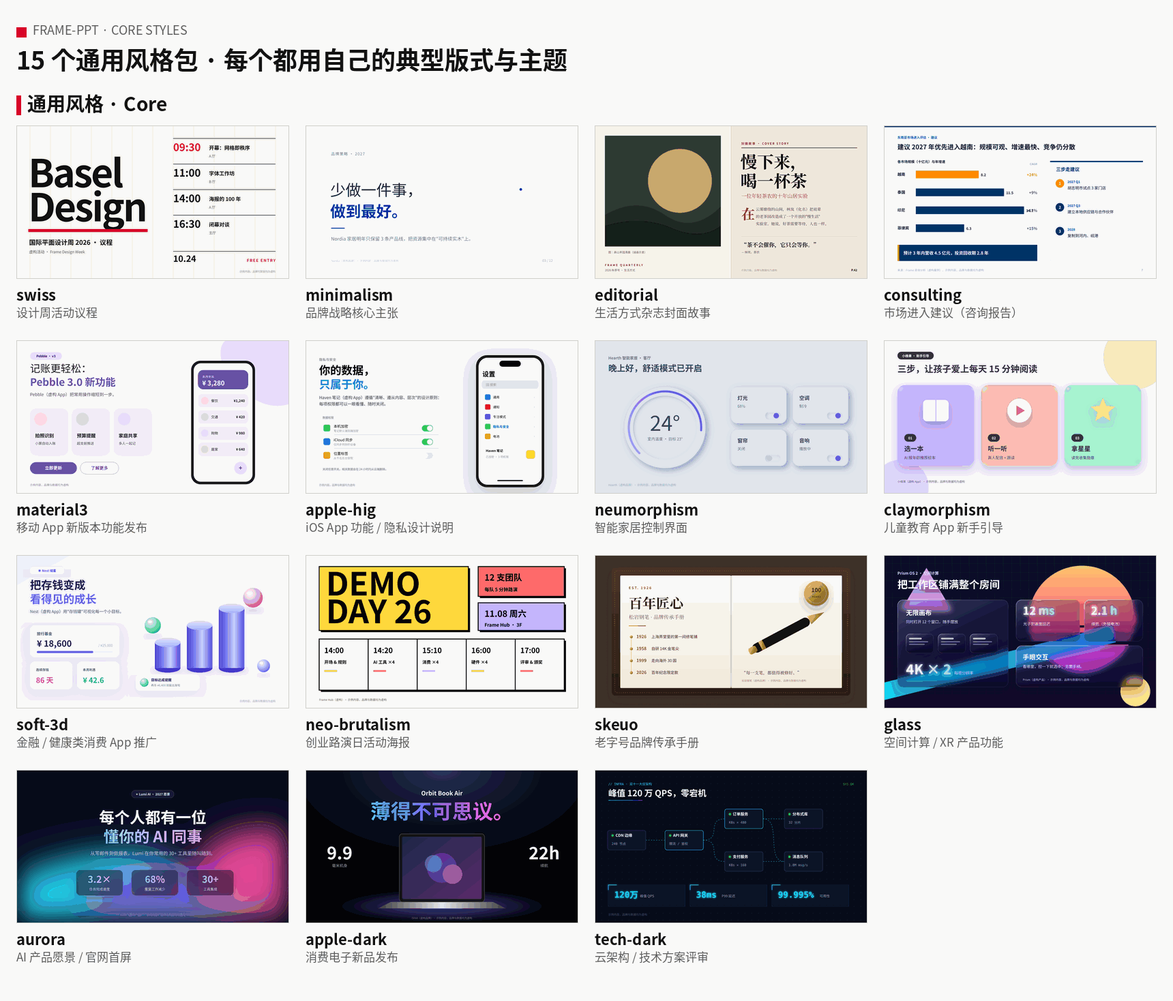
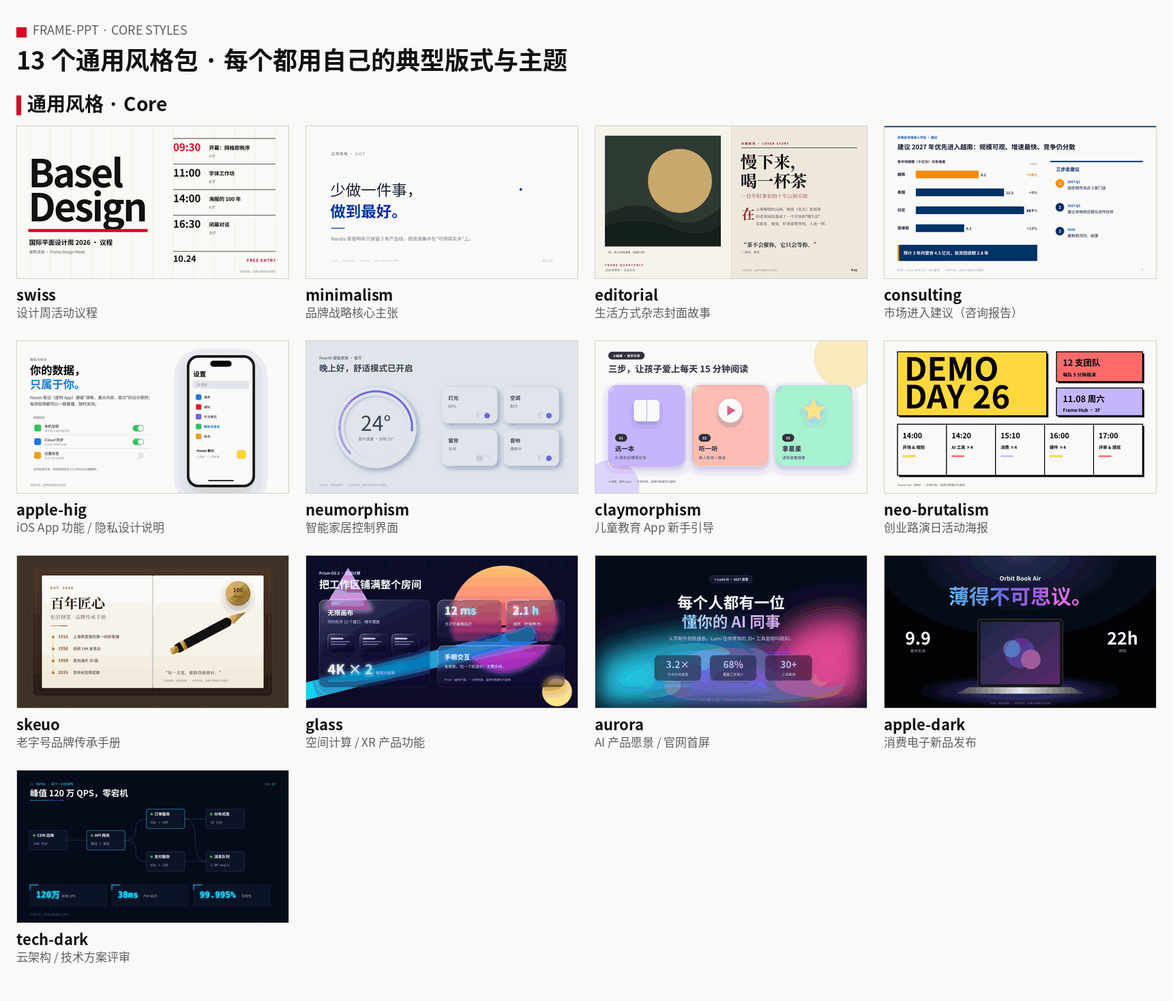
Remove soft-3d and material3 (33 packs); big-type README images; shorter READMEs; rebuilt galleries

Changed region(s): [[0.0, 0.3372, 0.986, 0.9809], [0.1541, 0.3372, 0.2465, 0.4905]]

diff --git a/SKILL.md b/SKILL.md
@@ -183,21 +183,21 @@ python3 scripts/svg2pptx.py out.pptx svg/*.svg
 ---
 
 ## 附录 A：风格包
-共 35 个：通用 15 个（A1–A13、A28 apple-hig、A29 soft-3d），行业与潮流 20 个（A14–A27、A30–A35）。
+共 33 个：通用 13 个（A1–A12、A27 apple-hig），行业与潮流 20 个（A13–A26、A28–A33）。
 
 **按场景 / 行业选风格包**：
 | 场景 | 推荐 |
 |---|---|
-| 培训、通用汇报 | swiss、minimalism、material3 |
+| 培训、通用汇报 | swiss、minimalism |
 | 咨询、战略、市场进入 | consulting、dashboard |
 | 经营分析、周报月报 | dashboard、consulting、neo-fintech |
 | 品牌故事、杂志、年度回顾 | editorial、skeuo、minimalism |
 | 消费电子 / 科技发布会 | apple-dark、big-type、aurora、glass |
-| App 功能、移动产品 | apple-hig、material3、soft-3d、y2k |
+| App 功能、移动产品 | apple-hig、y2k |
 | SaaS / AI 产品 | saas-launch、aurora、glass |
-| 金融科技、数字银行、加密 | neo-fintech、soft-3d、dashboard |
+| 金融科技、数字银行、加密 | neo-fintech、dashboard |
 | 工程、硬件、架构评审 | blueprint、tech-dark |
-| 智能家居、IoT | neumorphism、soft-3d |
+| 智能家居、IoT | neumorphism |
 | 教育、儿童 | claymorphism、kawaii-sticker |
 | 游戏发行、版本更新、世界观 | game-hud、fantasy-rpg、gacha、pixel-8bit |
 | 电竞、赛事 | esports、neo-brutalism |
@@ -286,105 +286,94 @@ python3 scripts/svg2pptx.py out.pptx svg/*.svg
 - 不用卡片底色，靠线和留白组织；适合观点类、品牌故事、年度回顾。
 - 不该做：圆角、阴影、渐变、超过 1 种强调色。
 
-### A9 `material3`：Material 3 / Material You
-- 调色板（基于种子色生成的 tonal palette）：Surface `#FFFBFE`，Surface Container `#F3EDF7`，Primary `#6750A4`，Primary Container `#EADDFF`，Secondary Container `#E8DEF8`，Tertiary Container `#FFD8E4`，On Surface `#1C1B1F`，次级 `#49454F`，Outline `#79747E`。
-- 形状：大圆角 28（卡片）、全圆角胶囊（标签 chip）；背景角落放一个 Primary Container 色的有机大形状（贝塞尔曲线）和一个 Tertiary 圆。
-- 卡片：Surface Container 填充 + elevation 1（`dy=1 std=1.5` 0.15 + `dy=4 std=6` 0.08）；右上角放一个 Container 色的圆形"图标位"，三张卡分别用 Secondary / Tertiary / 薄荷色调。重点卡用 Primary 实底白字。
-- 字号：标题 42（weight 600），大数字 60（weight 500，Primary），正文 18。
-- 不该做：硬阴影、尖角、饱和度过高的颜色、多个种子色。
-
-### A10 `neumorphism`：新拟态（Soft UI）
+### A9 `neumorphism`：新拟态（Soft UI）
 - 调色板：底色 = 卡片色 `#E0E5EC`（单色），凹槽 `#D1D9E6`，文字 `#3D4852` / `#6B7280`，强调紫 `#6C63FF`。
 - 凸起卡：同底色圆角 28，滤镜叠两层投影：左上白光 `dx=-10 dy=-10 std=12 #FFFFFF 0.9` + 右下暗影 `dx=12 dy=12 std=14 #A3B1C6 0.75`（用 feMerge 叠在原图下方）。
 - 凹陷区（重点卡内嵌）：内阴影滤镜（`feFlood` → `feComposite operator="out"` → blur 5 → offset 4,4 → 再 `in` 回原形状）。
 - 光源统一左上；对比度偏低，所以正文 ≥18，关键数字用强调紫。
 - 不该做：彩色底、细边框、深色模式、小字号浅灰字。
 
-### A11 `claymorphism`：黏土风
+### A10 `claymorphism`：黏土风
 - 调色板：画布 `#F4F1FA`，糖果色卡片 `#C4B5FD` 薰衣草 / `#FDBCB4` 蜜桃 / `#A7F3D0` 薄荷 / `#FDE68A` 奶黄，重点卡 `#7C3AED`，文字 `#332F3A`。
 - 卡片：大圆角 36；外投影 `dy=18 std=16 #5B3FA8 0.28`；内高光（白 0.8，offset 6,8，blur 8）+ 内暗部（`#3B1F7A` 0.25，offset −6,−10，blur 10），让卡片像充气的软黏土。
 - 标签用深色胶囊；大数字粗黑（weight 900，比常规大 8）；背景角落放两个半透明大圆点缀。
 - 不该做：尖角、细线条、写实阴影、超过 4 种糖果色。
 
-### A12 `neo-brutalism`：新粗野主义
+### A11 `neo-brutalism`：新粗野主义
 - 调色板：奶油底 `#FFFDF5`，纯黑 `#000000`，亮黄 `#FFD93D`，热红 `#FF6B6B`，柔紫 `#C4B5FD`。
 - 卡片：直角、3px 黑描边，右下 8px 实心黑色硬阴影（就是偏移 8,8 的黑色矩形，无模糊）；重点卡黑底黄字。
 - 背景：40px 竖线网格（黑 0.06）。标签是带黑框的红色小矩形；标题 44 weight 900；大数字 weight 900。
 - 不该做：渐变、圆角、柔和阴影、半透明。
 
-### A13 `aurora`：极光 / 渐变网格
+### A12 `aurora`：极光 / 渐变网格
 - 背景：`#070B1F` 深底 + 4 个大椭圆（`#22D3EE`、`#8B5CF6`、`#EC4899`、`#10B981`，旋转 ±10°）整体 `feGaussianBlur std=70`，形成流动的极光；不要压到正文区域的正下方。
 - 卡片：`#0B1026` 0.45–0.62 半透明深卡 + 白 0.16 细描边 + `dy=16 std=22` 黑 0.35 投影（深色玻璃但不做磨砂和边缘效果，比 `glass` 轻）。
 - 强调：`#7DD3FC → #F0ABFC` 渐变用于大数字和短条。文字白 / `#CBD5E1`。
 - 不该做：极光饱和度过高压住文字、在浅色底上用。
 
-### 行业与特色风格包（A14–A27）
+### 行业与特色风格包（A13–A26）
 所有示例都在同一页金字塔内容上，见 `docs/images/styles/`。卡片骨架（结论卡 + 3 张要点卡）不变，只换皮。
 
 **科技行业**
-### A14 `saas-launch`：SaaS / AI 产品发布（浅色）
+### A13 `saas-launch`：SaaS / AI 产品发布（浅色）
 - 底 `#FAFAFF` + 右上紫 `#A78BFA` 0.45、左下青 `#5EEAD4` 0.35 两个径向光；白卡 + `#E2E8F0` 描边 + 双层投影（近影 0.06 + 远影靛色 `#4F46E5` 0.10）；品牌渐变 `#6366F1 → #EC4899` 用于数字、短条、`✦ NEW · v2.0` 胶囊；结论卡 `#0F172A` 深色；要点卡右上放渐变 sparkline 折线（stroke 3，圆角端点）。与 apple-dark 的区别：浅色、产品官网感。
-### A15 `blueprint`：工程蓝图
+### A14 `blueprint`：工程蓝图
 - 底 `#0B3A6F` + 40px 细网格（白 0.08）+ 200px 粗网格（白 0.16）；卡片白 0.05 填充 + `#BEDCFF` 虚线描边（`6 5`），四角黄铜色 `#FFD27A` 小圆定位点；卡片上方画尺寸标注线 + 等宽小字 "368 px"；卡内画十字瞄准圆；右下角图签框（项目名 / 图号）；标签等宽 `DWG-02 /`；数字细体等宽白色。
-### A16 `dashboard`：数据看板
+### A15 `dashboard`：数据看板
 - 底 `#F3F4F6`；白卡圆角 12 + `#E5E7EB` 描边 + 极淡投影；每张要点卡一个环形进度（`stroke-dasharray` 按百分比，`rotate(-90)` 从顶部开始，圆角端点）+ 一条进度条，三色 `#2563EB / #10B981 / #F59E0B`；结论卡左侧 6px 蓝条 + 右侧柱状迷你图（最后一根深蓝高亮）；右上放 "2026 Q4 ▾" 筛选器。适合经营分析、周报。
 
 **游戏行业**
-### A17 `game-hud`：游戏 HUD / 科幻界面
+### A16 `game-hud`：游戏 HUD / 科幻界面
 - 底 `#050A14` + 六边形网格 pattern（青 0.07）+ 四周暗角径向渐变；卡片为切角八边形（切 18），左上角发光折线（`feGaussianBlur 5` + merge）；结论卡橙色 `#F97316` 边框 + "QUEST ★ 主线任务"；要点卡加 EXP 经验条（橙→黄渐变）+ 右上菱形格子（等级）；页眉右侧 HP 条；数字 "01/02/03" 等宽发光青色。与 tech-dark 的区别：游戏化元素（血条、经验、任务）、橙青对撞。
-### A18 `esports`：电竞赛事
+### A17 `esports`：电竞赛事
 - 底 `#0A0A0E` + 右侧 5 条斜向红色光带（透明度递增）；所有卡片为平行四边形（斜切 16）；结论卡红→橙渐变 `#FF1E3C → #FF7A1A`，背景大号斜体 "MVP" 0.22；要点卡顶部 8px 队伍色条，背后超大斜体 "#1" 0.05；标题、数字全部斜体 weight 900。
-### A19 `fantasy-rpg`：奇幻 RPG 面板
+### A18 `fantasy-rpg`：奇幻 RPG 面板
 - 底紫黑径向渐变 `#2A1E3A → #0D0912` + 60 个随机金色星点；卡片深紫渐变 + 金色渐变描边（`#F6E3A1 → #C9A24A → #8A6A22`）+ 内侧细金线；四角宝石菱形（不同颜色），顶边中央金条 + 宝石；标题居中衬线金色渐变 + 两侧装饰线；数字用罗马数字 Ⅰ Ⅱ Ⅲ。
-### A20 `gacha`：二次元抽卡
+### A19 `gacha`：二次元抽卡
 - 底浅天蓝→浅粉渐变 + 散落四角星 sparkle；卡片外框按稀有度渐变（SSR 金粉 `#FFE29A → #FF7EB3`、SR 紫、R 蓝），内层白 0.92；右上稀有度字母（斜体渐变）+ ★ 星级；结论卡 SSR 渐变底 + "UP!" + 闪光；标签 "限定"。适合二次元游戏、活动运营。
 
 **IP / 角色友好**
-### A21 `mascot`：吉祥物 / IP 角色
+### A20 `mascot`：吉祥物 / IP 角色
 - 版式：右侧 372px 保留为 **IP 角色区**（圆角 32，`#FFE9CC` 底 + 浅色光圈），放角色 + 对话气泡（一句核心观点）；左侧 780px 放标准卡片骨架。
 - 示例角色是 SVG 原创占位（圆形身体、耳朵、腮红、描边 5px），**使用时替换为用户自己的 IP 素材**：把 PNG/SVG 放到项目 `assets/ip/`，用 `<image href="assets/ip/角色.png" x="904" y="140" width="300" height="360" preserveAspectRatio="xMidYMid meet"/>` 替换占位 `<g>`；导出时 svg2pptx 会一起渲染进 PNG 回退。只使用用户有权使用的素材。
 - 配色从角色主色取：本例 `#FF8A3D` 橙 + `#3A2A1A` 深棕描边 + `#FFF8EF` 底。
-### A22 `manga`：漫画分镜
+### A21 `manga`：漫画分镜
 - 底网点纸 `#F5F2EA`；所有卡片是 4px 黑框分镜格，要点卡轻微旋转（±1°）显得手工；卡片右上角网点（halftone pattern，`circle r=2.2` 旋转 45°）；结论格右侧集中线（放射线 clip 在格内）+ 椭圆对白框 "结论！"；标题旁加拟声线条；数字粗斜体。角色立绘可放进单独一格。
-### A23 `kawaii-sticker`：可爱贴纸
+### A22 `kawaii-sticker`：可爱贴纸
 - 底 `#FFF5F9` + 粉色波点 + 爱心/四角星；卡片是"贴纸"：`feMorphology dilate 7` 生成白边 + 粉色柔投影，轻微旋转（±2°）；三色马卡龙 `#FFD1E3 / #D7F5E9 / #E3DBFF`，结论卡 `#FF6FA5`；每张卡右上一个原创小表情（白圆 + 眼睛 + 腮红），可替换成 IP 表情包。
 
 **特殊风格**
-### A24 `pixel-8bit`：像素 / 8-bit
+### A23 `pixel-8bit`：像素 / 8-bit
 - 灵感来自 NES.css：像素边框（用两层错位矩形做出无圆角的"阶梯角"）+ 底部 6px 暗边；数字用 5×7 点阵字（每个像素 8px 方块）；像素爱心表示得分；标签黄色像素框 "LV.02"；底 `#F2F0E6` + 8px 点阵；主色 `#E76E55 / #92CC41 / #209CEE / #F7D51D`。不要用抗锯齿圆角和渐变。
-### A25 `vaporwave`：蒸汽波 / Y2K
+### A24 `vaporwave`：蒸汽波 / Y2K
 - 天空渐变 `#2B0F54 → #AB1F65 → #FF4F69`，条纹落日（黄→粉渐变圆被深色横条切开），地面透视网格（青 `#00F0FF` 0.55，横线按平方间距）；卡片是复古窗口：顶部彩色标题栏（`01.EXE`、三个方块按钮）+ 半透明深紫窗体；标题和数字用"铬"渐变（白→青 | 深紫→粉，中间硬分界）。
-### A26 `risograph`：孔版印刷
+### A25 `risograph`：孔版印刷
 - 纸色 `#FFFCF2`；专色荧光粉 `#FF48B0`、蓝 `#0078BF`、黄 `#FFE800`；两色叠印（`mix-blend-mode:multiply`）+ 3px 套色偏移（标题、数字各印两遍）；要点卡用另一专色做硬阴影；网点 pattern；最上层 `feTurbulence` 颗粒（0.15）。
-### A27 `sketch`：手绘草图
+### A26 `sketch`：手绘草图
 - 灵感来自 Rough.js：横格笔记本底 + 左侧红色页边线；所有框用 `feTurbulence baseFrequency .03` + `feDisplacementMap scale 5` 做抖动，并画两遍（第二遍细一点、错位 2–3px）；斜线 hachure 填充（pattern 旋转 ±30°）；标题下手绘波浪下划线；数字外画圈。
 
-### 新增风格包（A28–A35）
-### A28 `apple-hig`：Apple HIG（系统界面风，区别于 apple-dark 发布会）
+### 新增风格包（A27–A33）
+### A27 `apple-hig`：Apple HIG（系统界面风，区别于 apple-dark 发布会）
 - 遵循 HIG 三原则：清晰（Clarity）、遵从内容（Deference）、层次（Depth）。底 `#F2F2F7`（systemGroupedBackground），分组卡白色圆角 14，行高 64，行间 1px `#C6C6C8` 分隔线从文字左缘开始；分组标题 13px `#6D6D72`，分组脚注 13px。
 - 系统色：蓝 `#007AFF`、绿 `#34C759`、橙 `#FF9500`、红 `#FF3B30`、靛 `#5856D6`、黄 `#FFCC00`；图标为 32px 圆角 8 的彩色方块。开关 52×30 胶囊（开=绿），白色圆钮带柔投影。
 - 字体：SF Pro / 苹方风格无衬线（中文用 Noto Sans CJK），大标题 52 粗体、正文 17、次级 13 `#8E8E93`。
 - 版式：左侧大标题 + 分组列表，右侧 iPhone 机身（圆角 52）展示设置界面。不该做：渐变、霓虹、粗边框、自造控件。
-### A29 `soft-3d`：Soft UI 3D 物体 + UI 卡片融合
-- 底淡紫→淡粉渐变 `#EEF0FF → #FDF2F8`；3D 物体用纯 SVG 模拟：球体 = 偏心径向渐变（高光点在左上 35%/30%，白 → 浅色 → 主色）+ 椭圆高光 + 模糊投影椭圆；圆柱 = 横向 4 段线性渐变（暗-亮-高光-暗）+ 顶部椭圆盖 + 底部椭圆。
-- UI 卡：白 0.85、圆角 24、双层柔投影（近 0.06 + 远 `#312E81` 0.12，dy 18 blur 30）；进度条、数字用主色 `#6366F1`、粉 `#EC4899`、绿 `#10B981`。
-- 版式：左侧标题 + UI 卡堆叠，右侧 3D 物体群（高低错落的圆柱 + 漂浮小球）。不该做：写实贴图、硬阴影、物体压住文字。
-### A30 `neo-fintech`：新金融科技
+### A28 `neo-fintech`：新金融科技
 - 底 `#0A0B0E` + 右上墨绿径向光；卡片 `#1A1D24 → #111318` 圆角 24 + `#262A33` 描边；强调色酸橙 `#C6FF3D → #7CFFB2`（只用在曲线、涨幅、银行卡）。
 - 主图：面积折线（酸橙描边 3.5 + 0.35→0 渐变填充）+ 末端发光点；银行卡视觉（酸橙渐变卡面 + 等宽卡号）；小指标卡带迷你 sparkline。
 - 合规：金融数字必须标注"虚构 / 不构成投资建议"。不该做：多种强调色、红绿涨跌以外的彩色。
-### A31 `art-deco`：装饰艺术
+### A29 `art-deco`：装饰艺术
 - 底墨绿径向 `#123A33 → #06140F`；金色渐变 `#F7E7B0 → #D4AF37 → #8C6B1F`；中心向上的扇形光芒（18 条，透明度 0.1）；双层细金框 + 四角阶梯折线与菱形装饰。
 - 字体：衬线，英文大字距（14），中文字距 10；信息区三栏竖线分隔，标签全大写小字距 6。版式严格对称居中。不该做：圆角、柔投影、非对称。
-### A32 `pop-psychedelic`：迷幻波普
+### A30 `pop-psychedelic`：迷幻波普
 - 背景：15 个同心色环（粉 `#FF3D7F`、橙 `#FF9F1C`、黄 `#FFE74C`、绿 `#3DDC97`、蓝 `#2EC4F1`、紫 `#8E44EC` 循环）整体加 `feTurbulence turbulence baseFrequency=".004 .012"` + `feDisplacementMap scale 90` 扭成液态漩涡。
 - 中央用深紫 `#2A0A3D` 0.88 大胶囊承载文字；标题黄字 + 粉色描边（`paint-order="stroke"`）。信息层级：头牌 40 → 次级 24 → 其他 18。不该做：小字压在漩涡上、超过一块文字区。
-### A33 `memphis`：孟菲斯
+### A31 `memphis`：孟菲斯
 - 奶油底 `#FFF6E5`；几何碎片：波浪线、粗环、三角、点阵、锯齿 pattern、斜放矩形，全部 3–4px 黑描边；色板粉 `#FF4F81`、黄 `#FFD23F`、蓝 `#2D9CDB`、绿 `#3DDC97`、橙 `#FF9F1C`。
 - 标题块 = 彩色矩形 + 4px 黑框 + 偏移 8px 黑色硬阴影；案例卡顶部色条。碎片只放四周，不进入正文区。
-### A34 `y2k`：千禧 / Y2K 落地页
+### A32 `y2k`：千禧 / Y2K 落地页
 - 底冰蓝→淡紫→淡粉渐变 + 白色弧线；顶部胶囊导航（品牌、菜单、渐变 CTA）；标题用"铬"渐变（白→钢蓝→深靛硬分界→浅蓝）+ 深靛描边 1.5；泡泡主视觉（偏心径向渐变：白 → 淡紫 0.35 → 浅蓝 0.6 + 白描边 + 椭圆高光）+ 四角星闪光；双按钮（渐变实心 + 白底描边）。
-### A35 `big-type`：大字冲击
+### A33 `big-type`：大字冲击
 - 满版巨字（230px，字距 −12），一行实心一行描边（stroke 3，fill none），允许出血到画布左缘；底部 200px 高饱和色带（`#FF4A1C`）放宣言小字和年份。一页只有一句话。不该做：再加图片或卡片。
 
 ### 每个风格包的典型版式与示例主题
@@ -396,11 +385,9 @@ python3 scripts/svg2pptx.py out.pptx svg/*.svg
 | `minimalism` | 一页一句话：大留白 + 单焦点 | 品牌战略核心主张 |
 | `editorial` | 杂志跨页：左大图 + 右标题/首字下沉/引语 | 生活方式杂志封面故事 |
 | `consulting` | 行动标题 + 左图表右建议 + 底部结论条 | 市场进入建议（咨询报告） |
-| `material3` | 功能卡片 + 手机界面 + 胶囊按钮 | 移动 App 新版本功能发布 |
 | `apple-hig` | 分组圆角列表 + iPhone 设置界面，系统色与开关 | iOS App 功能 / 隐私设计说明 |
 | `neumorphism` | 控制面板：大旋钮 + 开关瓷砖 | 智能家居控制界面 |
 | `claymorphism` | 步骤卡：大号黏土图标 + 编号胶囊 | 儿童教育 App 新手引导 |
-| `soft-3d` | 左 UI 卡片 + 右 3D 立体物（圆柱/球体）光影场景 | 金融 / 健康类消费 App 推广 |
 | `neo-brutalism` | 超大字块 + 硬阴影色块拼贴 + 粗框日程 | 创业路演日活动海报 |
 | `skeuo` | 翻开的皮面笔记本：左时间线右产品插画 | 老字号品牌传承手册 |
 | `glass` | 空间 UI：大玻璃面板 + 参数小卡，背景有清晰构图 | 空间计算 / XR 产品功能 |
@@ -428,7 +415,7 @@ python3 scripts/svg2pptx.py out.pptx svg/*.svg
 | `memphis` | 几何碎片拼贴 + 硬阴影标题块 + 案例卡 | 创意机构 / 青年品牌作品集 |
 | `big-type` | 满版巨字：实心 + 描边两行 + 底部色带宣言 | 品牌宣言 / 演讲开场 / 发布会金句 |
 
-**A6–A35 的检查与导出**：
+**A6–A33 的检查与导出**：
 - `check_render.py` 会把 `fill="none"` 或 `opacity<1` 的装饰矩形（高光、斜面、缝线框）排除在"卡片"之外，不会误报溢出。
 - 这些风格包多为渐变或多色强调，**不要传 `--accent`**（面积检查只适用于纯色强调色的风格包）；改为看 PNG 目视确认强调不过量。
 - 导出 PPTX 时 PNG 回退由 rsvg 渲染，滤镜/渐变/模糊都会如实呈现；PowerPoint 对 SVG 滤镜支持有限，原生 SVG 层可能显示得比 PNG 简化，重要场合以 PNG 渲染效果为准、导出后在目标软件里打开检查。

diff --git a/README.md b/README.md
@@ -1,66 +1,39 @@
-**English** | [简体中文](README.zh-CN.md)
+English | [简体中文](README.zh-CN.md)
 
-# frame-ppt
+![frame-ppt](docs/images/readme/hero-en.png)
 
-> A PPT skill for AI agents: say `frame` and go from a rough idea to a polished, ready-to-present deck.
+![Not a generator, a partner](docs/images/readme/highlight-en.png)
 
-> [!IMPORTANT]
-> **It's not a one-click page generator.** frame works *with* you to structure the deck: it asks multiple-choice questions about your needs, builds a pyramid-principle outline, reviews the content page by page with you, and only then designs, delivering an editable deck that's ready to present.
+**frame-ppt works with you to structure the deck. It is not a one-click page generator.** It asks about your brief first, then builds a pyramid-principle outline. Each page waits for your sign-off before the final design is produced.
 
-## Quick install
+![Workflow](docs/images/readme/workflow-en.png)
 
-Tell your agent (Claude Code, Hermes, or any agent with skills):
+![Install](docs/images/readme/install-en.png)
 
-```text
-Install the skill from https://github.com/ottoprua/frame-ppt into your skills folder.
+Paste this to your agent (Claude Code, Codex, etc.):
+
+```
+Install this PPT skill for me: https://github.com/ottoprua/frame-ppt
 ```
 
-Or install it manually for Claude Code:
+Or install it manually:
 
 ```bash
 git clone https://github.com/ottoprua/frame-ppt.git ~/.claude/skills/frame-ppt
 ```
 
-Then just say: **`frame: a 10-page training deck on running good meetings`**
+Then say **`frame`** to your agent to start.
 
-## What you get
+![Results](docs/images/readme/results-en.png)
 
-**Workflow: structure first, design last**
+There are 33 style packs, each with its own signature layout and theme. All brands and data in these images are fictional examples.
 
-<img src="docs/images/workflow.png" width="560" alt="workflow">
+![Core styles](docs/images/style-gallery.png)
 
-**Finished slides (swiss pack)**
+![Industry & trend styles](docs/images/style-gallery-industry.png)
 
-![showcase](docs/images/showcase.png)
+Full-resolution slides (3840×2160) are available in Releases.
 
-**Draft → design**: same skeleton, new skin
+---
 
-![draft vs final](docs/images/draft-vs-final.png)
-
-**Skeuomorphic (skeuo)**
-
-![skeuo](docs/images/showcase-skeuo.png)
-
-**Glassmorphism (glass)**
-
-![glass](docs/images/showcase-glass.png)
-
-**Apple dark** · **Consulting** · **Tech dark**
-
-![apple](docs/images/showcase-apple.png)
-![consulting](docs/images/showcase-consulting.png)
-![tech](docs/images/showcase-tech.png)
-
-**15 core style packs**, each shown with its own signature layout and a fitting theme (full-size images in [docs/images/styles/](docs/images/styles/)), plus brand colors or a reference image
-
-![style packs](docs/images/style-gallery.png)
-
-**20 industry & trend packs**: tech & fintech, gaming, IP/character, art & trend (characters are original placeholders you can swap for your own IP; all brands and numbers in the examples are fictional)
-
-![industry packs](docs/images/style-gallery-industry.png)
-
-Export: editable PPTX (each slide embeds its SVG with a PNG fallback) or a single-file HTML.
-
-## Credits & license
-
-[Apache-2.0](LICENSE). Parts of the rules and prompts are adapted from [zhx47/ppt-agent](https://github.com/zhx47/ppt-agent); see [NOTICE.md](NOTICE.md).
+MIT License · Credits and third-party notices in [NOTICE.md](NOTICE.md)

diff --git a/README.zh-CN.md b/README.zh-CN.md
@@ -1,66 +1,39 @@
-[English](README.md) | **简体中文**
+[English](README.md) | 简体中文
 
-# frame-ppt
+![frame-ppt](docs/images/readme/hero-zh.png)
 
-> 给 AI Agent 用的 PPT skill：说一句 `frame`，从一个想法做到一套能直接用的精美 PPT。
+![不是生成器，是搭档](docs/images/readme/highlight-zh.png)
 
-> [!IMPORTANT]
-> **它不是"一键生成页面"的工具。** frame 会和你一起把 PPT 想清楚：先用选择题问清需求，再用金字塔原理搭大纲，逐页和你确认内容，最后才出设计，交付可编辑、可直接上台的 PPT。
+**frame-ppt 和你一起把 PPT 的结构搭起来，不是一键出页面的生成器。** 它先问清你的需求，再用金字塔原理搭好大纲。每一页都等你确认之后，才出最终的设计稿。
 
-## 快速安装
+![工作流程](docs/images/readme/workflow-zh.png)
 
-把这句话发给你的 Agent（Claude Code、Hermes 等都可以）：
+![安装](docs/images/readme/install-zh.png)
 
-```text
-请从 https://github.com/ottoprua/frame-ppt 安装这个 skill 到你的 skills 目录。
+把下面这句话发给你的 Agent（Claude Code、Codex 等）：
+
+```
+帮我安装这个 PPT skill：https://github.com/ottoprua/frame-ppt
 ```
 
-或者手动装到 Claude Code：
+也可以手动安装：
 
 ```bash
 git clone https://github.com/ottoprua/frame-ppt.git ~/.claude/skills/frame-ppt
 ```
 
-装好后直接说：**`frame：做一套 10 页的"如何开好会"培训 PPT`**
+装好之后，对 Agent 说一句 **`frame`** 就能开始。
 
-## 效果展示
+![效果](docs/images/readme/results-zh.png)
 
-**流程：先搭框架，再出画面**
+33 个风格包，每个都有自己的典型版式和主题。图中的品牌和数据都是虚构的示例。
 
-<img src="docs/images/workflow.png" width="560" alt="工作流">
+![通用风格](docs/images/style-gallery.png)
 
-**成品示例（swiss 瑞士风）**
+![行业与潮流风格](docs/images/style-gallery-industry.png)
 
-![效果展示](docs/images/showcase.png)
+高清原图（3840×2160）可以在 Releases 下载。
 
-**初稿 → 设计稿**：骨架不变，只换皮
+---
 
-![初稿与设计稿](docs/images/draft-vs-final.png)
-
-**拟物风（skeuo）**
-
-![拟物风](docs/images/showcase-skeuo.png)
-
-**磨砂玻璃风（glass）**
-
-![磨砂玻璃风](docs/images/showcase-glass.png)
-
-**发布会深色（apple-dark）** · **咨询风（consulting）** · **科技暗色（tech-dark）**
-
-![apple](docs/images/showcase-apple.png)
-![consulting](docs/images/showcase-consulting.png)
-![tech](docs/images/showcase-tech.png)
-
-**15 个通用风格包**，每个都用自己的典型版式和主题做示例（单张大图在 [docs/images/styles/](docs/images/styles/)），也支持品牌色或参考图
-
-![风格包](docs/images/style-gallery.png)
-
-**20 个行业与潮流风格包**：科技金融、游戏、IP 角色、艺术潮流（角色为原创占位图，可替换成你自己的 IP；示例中的品牌和数据均为虚构）
-
-![行业风格包](docs/images/style-gallery-industry.png)
-
-导出：可编辑的 PPTX（每页内嵌 SVG，并附 PNG 回退），或单文件 HTML。
-
-## 致谢与许可
-
-[Apache-2.0](LICENSE)。部分规则和提示词改编自 [zhx47/ppt-agent](https://github.com/zhx47/ppt-agent)，详见 [NOTICE.md](NOTICE.md)。
+MIT License · 致谢与第三方许可见 [NOTICE.md](NOTICE.md)

diff --git a/NOTICE.md b/NOTICE.md
@@ -12,7 +12,7 @@ scripts/ 下的脚本为原创编写，未复制第三方源码。
 - lewislulu/html-ppt-skill（MIT）https://github.com/lewislulu/html-ppt-skill ：主题 token 结构（glassmorphism、blueprint、pitch-deck-vc、swiss-grid）。
 - anthropics/skills frontend-design（Apache-2.0）https://github.com/anthropics/skills/tree/main/skills/frontend-design ：背景要有氛围和层次、避免模板化默认审美。
 - courtsimas/glass-lens（MIT）https://github.com/courtsimas/glass-lens 、LeonardSEO/liquid-glass-react（MIT）https://github.com/LeonardSEO/liquid-glass-react 、dpawlikowski/liquid-glass（MIT）https://github.com/dpawlikowski/liquid-glass ：feDisplacementMap 折射、滤镜作用于背景副本、边缘色散。
-- nextlevelbuilder/ui-ux-pro-max-skill（MIT）https://github.com/nextlevelbuilder/ui-ux-pro-max-skill ：styles.csv 中 Neumorphism、Claymorphism、Neubrutalism、Material 3、Aurora、Editorial Grid、Liquid Glass 等风格的关键词与配色参考。
+- nextlevelbuilder/ui-ux-pro-max-skill（MIT）https://github.com/nextlevelbuilder/ui-ux-pro-max-skill ：styles.csv 中 Neumorphism、Claymorphism、Neubrutalism、Aurora、Editorial Grid、Liquid Glass 等风格的关键词与配色参考。
 - nostalgic-css/NES.css（MIT）https://github.com/nostalgic-css/NES.css ：像素边框与 8-bit 视觉语言（pixel-8bit 思路参考）。
 - rough-stuff/rough（MIT）https://github.com/rough-stuff/rough ：手绘抖动、双线描边、hachure 填充的视觉思路（sketch 用 SVG 滤镜原创实现）。
 - lewislulu/html-ppt-skill 的 blueprint、vaporwave 主题，以及 ui-ux-pro-max-skill styles.csv 的 Dashboard、HUD/Sci-Fi FUI、Pixel Art、Vaporwave、Y2K、Sketch Hand-Drawn 条目：配色与关键词参考。
